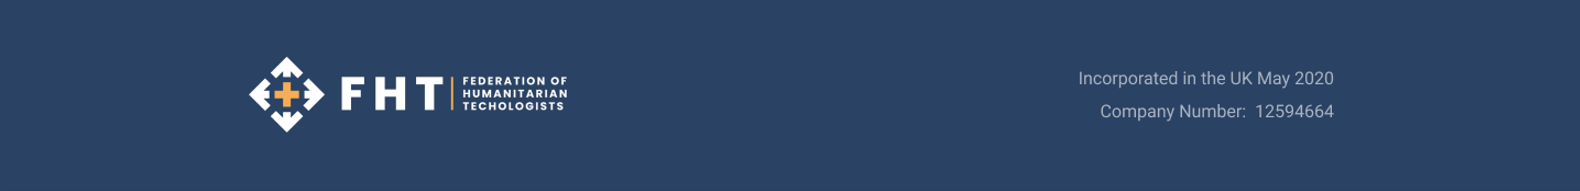
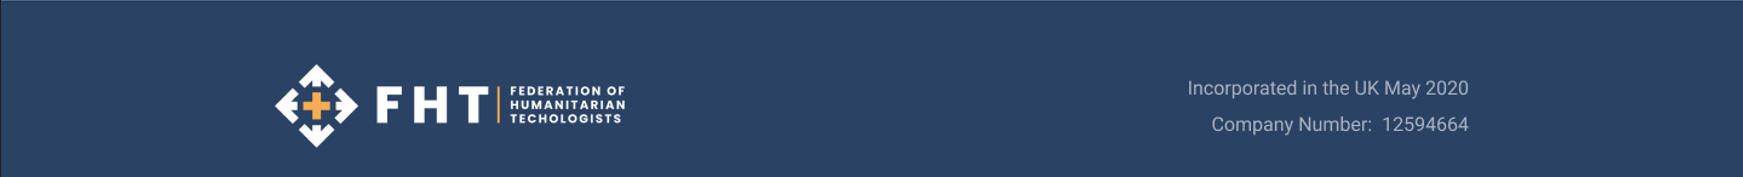
css

diff --git a/frontend/coalesce/src/layouts/MainLayout.vue b/frontend/coalesce/src/layouts/MainLayout.vue
@@ -1,5 +1,5 @@
 <template>
-  <q-layout view="lHh Lpr lFf">
+  <q-layout view="lHh Lpr lFf" >
     <!--<q-header>-->
     <q-toolbar class="shadow-2">
       <img src="../assets/coalesce-logo.png">
@@ -32,8 +32,8 @@
     <q-page-container>
       <router-view />
     </q-page-container>
-    <q-toolbar>
-      <img src="../assets/footer.png"/>
+    <q-toolbar  style="background-color: #2a4264; ">
+      <q-img src="../assets/footer.png" />
     </q-toolbar>
   </q-layout>
 </template>
